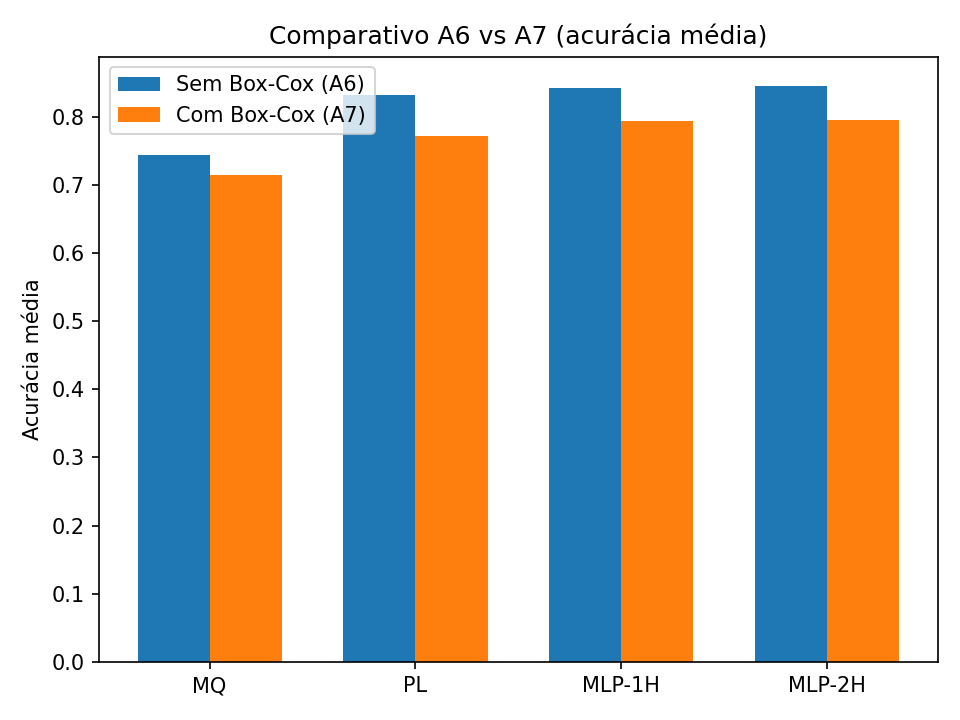
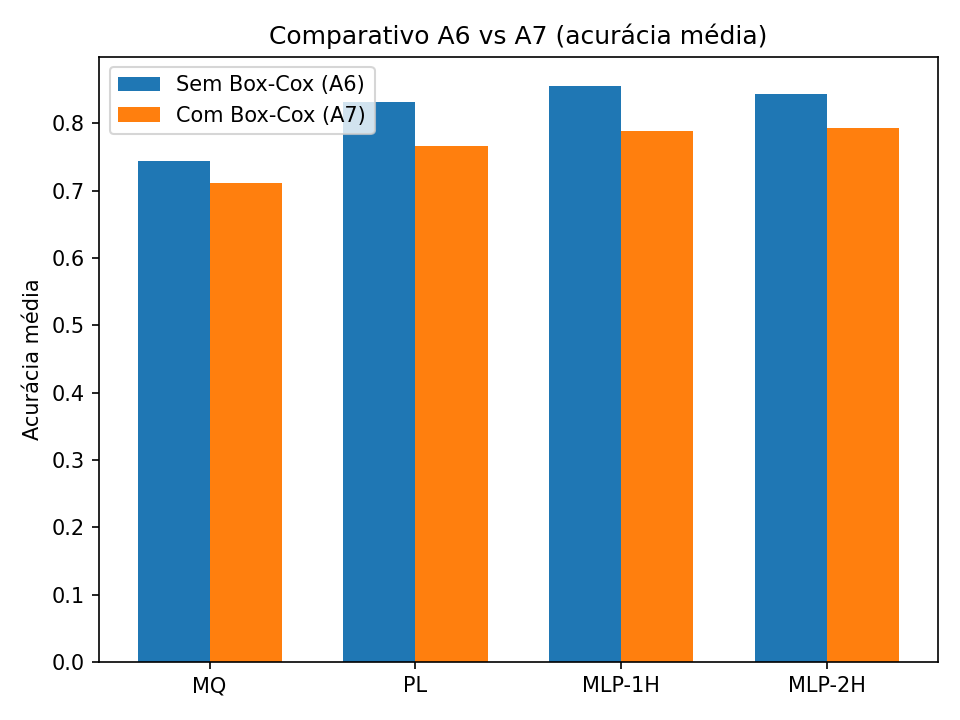
add new results, larger search

diff --git a/src/tc2_faces_A1_A4.py b/src/tc2_faces_A1_A4.py
@@ -14,10 +14,10 @@ from trabalho_ic_aplicada.models.clf_mlp import MLPClassifier
 # =========================
 # CONFIG
 # =========================
-# DATA_ROOT = "./data/raw/Kit_projeto_FACES"
-DATA_ROOT = "/home/apo-note/Documents/Github/Trabalhos_IC_Aplicada/data/raw/Kit_projeto_FACES"
+DATA_ROOT = "./data/raw/Kit_projeto_FACES"
+# DATA_ROOT = "/home/apo-note/Documents/Github/Trabalhos_IC_Aplicada/data/raw/Kit_projeto_FACES"
 SCALES    = [(20,20), (30,30), (40,40)]  # compare as que quiser
-N_SAMPLES_RS   = 100   # nº de amostras da busca aleatória por modelo
+N_SAMPLES_RS   = 200   # nº de amostras da busca aleatória por modelo
 K_SELECT_EVAL  = 10   # repetições por candidato na seleção (trade-off tempo/estabilidade)
 N_REPEATS_BEST = 50   # repetições finais para estatísticas da Tabela (pedidas no enunciado)
 RESULTS_DIR    = "./results/TC2/"

diff --git a/src/tc2_faces_A5_A6.py b/src/tc2_faces_A5_A6.py
@@ -18,7 +18,7 @@ SELECT_SCALE_ID = -1   # use a “escala OK” (ex.: última da lista)
 VAR_TARGET      = 0.98 # ≥ 98% da variância
 
 SCALES    = [(30,30)]  # compare as que quiser
-N_SAMPLES_RS   = 100   # nº de amostras da busca aleatória por modelo
+N_SAMPLES_RS   = 200   # nº de amostras da busca aleatória por modelo
 K_SELECT_EVAL  = 10   # repetições por candidato na seleção (trade-off tempo/estabilidade)
 N_REPEATS_BEST = 50   # repetições finais para estatísticas da Tabela (pedidas no enunciado)
 RESULTS_DIR    = "./results/TC2/"

diff --git a/src/tc2_faces_A7.py b/src/tc2_faces_A7.py
@@ -19,7 +19,7 @@ RESULTS_DIR     = "./results/TC2/"
 BASELINE_T3_CSV = os.path.join(RESULTS_DIR, "tabela3.csv")  # gerado na A6
 
 # Busca e avaliação (iguais à A6)
-N_SAMPLES_RS   = 100    # amostras no random search por modelo
+N_SAMPLES_RS   = 200    # amostras no random search por modelo
 K_SELECT_EVAL  = 10# repetições por candidato na seleção (estabilidade)
 N_REPEATS_BEST = 50    # repetições finais para tabela
 

diff --git a/src/tc2_faces_A8.py b/src/tc2_faces_A8.py
@@ -16,7 +16,7 @@ SCALES          = [(30,30)]
 SELECT_SCALE_ID = -1
 RESULTS_DIR     = "./results/TC2/"
 
-N_SAMPLES_RS   = 100
+N_SAMPLES_RS   = 200
 K_SELECT_EVAL  = 10
 N_REPEATS_BEST = 50
 
